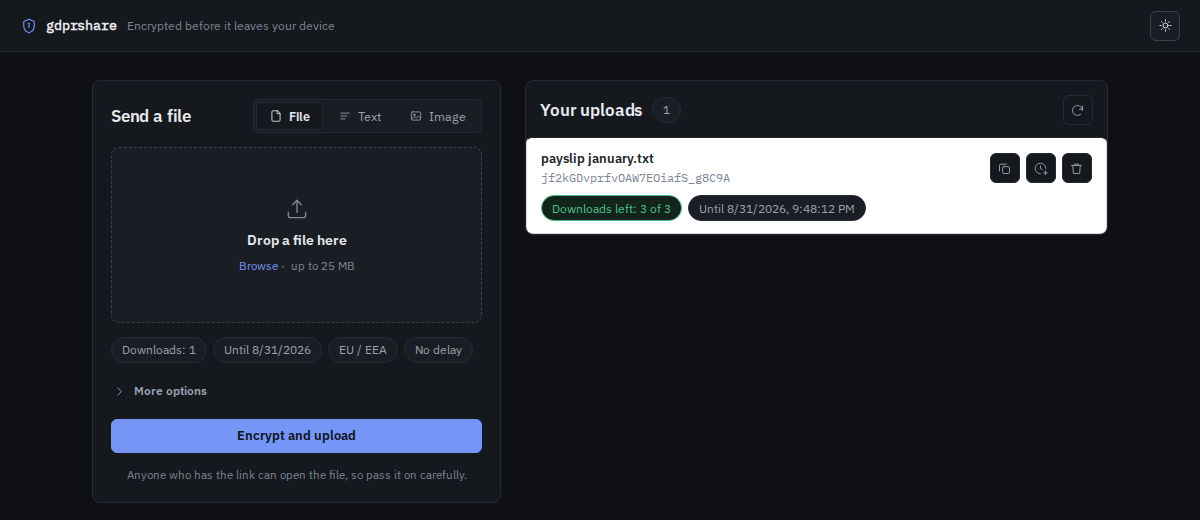
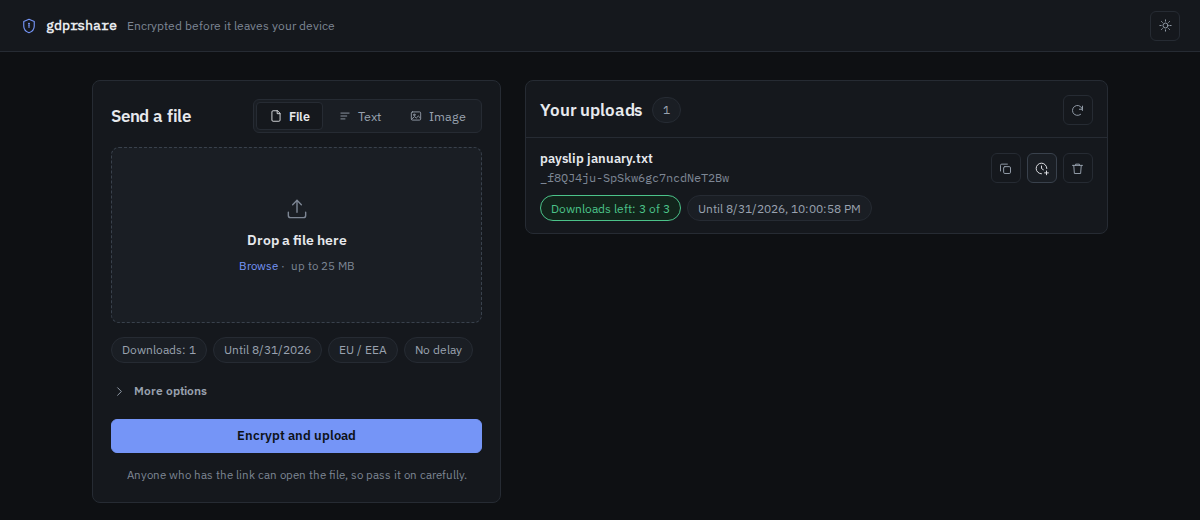
Keep the file rows off bootstrap's white card background in dark mode

Changed region(s): [[0.4317, 0.2462, 0.925, 0.4615], [0.9558, 0.0308, 0.9867, 0.0615]]

diff --git a/src/style/app.css b/src/style/app.css
@@ -895,9 +895,21 @@ textarea.form-control {
     overflow-y: auto;
 }
 
-.file-item {
+/* bootstrap paints .card white and rounds it; these rows keep the class for
+   its selector but take their look from the tokens */
+.card {
+    background: var(--surface);
+    border-color: var(--border);
+    border-radius: var(--radius);
+    color: var(--text);
+}
+
+.file-item.card {
     padding: 12px 14px;
+    background: transparent;
+    border: 0;
     border-top: 1px solid var(--border);
+    border-radius: 0;
 }
 
 .file-item-top {
